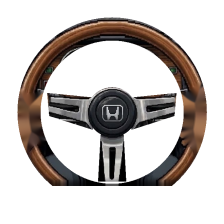
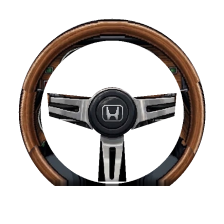
Alavanca de cambio grande, mao vai ate a alavanca de forma fluida, aro limpo sob as luvas
Claude-Session: https://claude.ai/code/session_01TuF56y2dJJwMBpJRURwFkp

diff --git a/demos/corrida-shibuya/index.html b/demos/corrida-shibuya/index.html
@@ -308,8 +308,8 @@ function engine(dt){
   if(shiftT>0)shiftT-=dt;
   else if(!manual){
     const r=v/GEARMAX[gear]*RPMHI;
-    if(r>7300&&gear<4){gear++;shiftT=.45;ev.push('f_shift');physKick(-6);shiftArm.t=.4;if(antilag&&thr>.5){alT=.7;alR=rpm}}
-    else if(gear>0&&r<3000){gear--;shiftT=.3;ev.push('f_blip');physKick(4);shiftArm.t=.4}
+    if(r>7300&&gear<4){gear++;shiftT=.45;ev.push('f_shift');physKick(-6);shiftArm.t=1;if(antilag&&thr>.5){alT=.7;alR=rpm}}
+    else if(gear>0&&r<3000){gear--;shiftT=.3;ev.push('f_blip');physKick(4);shiftArm.t=1}
   }
   const base=Math.max(900,v/GEARMAX[gear]*RPMHI);
   let target=(v<8&&key.a)?3400:base;
@@ -323,7 +323,7 @@ function engine(dt){
 function shiftTo(d){
   if(!manual){manual=true;const b=document.getElementById('tg');b.classList.add('on');b.setAttribute('aria-pressed',true)}
   const ng=clamp(gear+d,0,4);if(shiftT>0||ng===gear)return;
-  gear=ng;shiftT=.3;shiftArm.t=.45;ev.push(d>0?'f_shift':'f_blip');physKick(d>0?-5:3);
+  gear=ng;shiftT=.3;shiftArm.t=1;ev.push(d>0?'f_shift':'f_blip');physKick(d>0?-5:3);
   if(d>0&&antilag&&thr>.5&&rpm>5500){alT=.7;alR=rpm}
 }
 function gearK(){
@@ -616,7 +616,8 @@ function post(){
 const CK={};let CKC=null,ckReady=false;
 fetch('img/cockpit/cockpit.json').then(r=>r.json()).then(c=>{CKC=c;return Promise.all(['bg','wheel','gloveL','gloveR','armL','armR'].map(n=>new Promise(res=>{const i=new Image();i.onload=()=>{CK[n]=i;res()};i.onerror=res;i.src='img/cockpit/'+n+'.png'})))}).then(()=>{ckReady=!!CK.bg}).catch(()=>{});
 GLW.grn=mkG('70,255,130');
-let shP=[0,0],wheelA=0,wheelV=0,hb=0,gs=0,cabX=0,cabY=0,cabWX=0,cabWY=0,cabRoll=0,armJx=0,armJy=0;
+let shP=[0,0],hw=0,wheelA=0,wheelV=0,hb=0,cabX=0,cabY=0,cabWX=0,cabWY=0,cabRoll=0,armJx=0,armJy=0;
+const GX=[[-6,-7],[-6,7],[0,-7],[0,7],[6,-7]],LEV={bx:404,by:260,len:34};
 const shiftArm={t:0},wiper={on:false,ph:0},defog={on:false},fog={v:0},DROPS=[],radio={on:true,f:102.3};
 const WIPERS=[[175,150,112],[300,150,104]];
 function cabUpdate(dt){
@@ -627,7 +628,9 @@ function cabUpdate(dt){
   const tgt=clamp(steer*95-slip*38+act*((Math.random()-.5)*3*pct+clamp(BODY.hv,-4,4)*.5),-95,95);
   for(let i=0;i<4;i++){const h=dt/4;wheelV+=(900*(tgt-wheelA)-45*wheelV)*h;wheelA=clamp(wheelA+wheelV*h,-95,95)}
   if(Math.abs(tgt)<.2&&Math.abs(wheelA)<.2&&Math.abs(wheelV)<2){wheelA=0;wheelV=0}
-  gs+=((shiftArm.t>0?1:0)-gs)*Math.min(1,dt*14);shiftArm.t-=dt;
+  // mao no cambio: vai ate a alavanca (suave), segura enquanto troca, volta ao volante
+  shiftArm.t-=dt;hw+=((shiftArm.t>0?1:0)-hw)*Math.min(1,dt*6.5);
+  if(hw>.75){const sl=GX[gear];shP[0]+=(sl[0]-shP[0])*Math.min(1,dt*12);shP[1]+=(sl[1]-shP[1])*Math.min(1,dt*12)}
   hb+=((key.d&&pct>.1?1:0)-hb)*Math.min(1,dt*9);
   // balanço da cabine: inercia lateral (curva), arfagem (acelerar/frear) e buracos
   const tx=ay*2.4+act*BODY.r*.7,ty=act*(-BODY.h*.8-BODY.p*.5);
@@ -707,21 +710,29 @@ function drawCab(){
   // volante (rigido com o eixo), antebraços esticados ate as luvas, luvas
   const th=wheelA*Math.PI/180,H0=C.hub,rot=(p,a)=>[H0[0]+(p[0]-H0[0])*Math.cos(a)-(p[1]-H0[1])*Math.sin(a),H0[1]+(p[0]-H0[0])*Math.sin(a)+(p[1]-H0[1])*Math.cos(a)];
   ctx.save();ctx.translate(H0[0],H0[1]);ctx.rotate(th);ctx.drawImage(CK.wheel,C.wheelBox[0]-H0[0],C.wheelBox[1]-H0[1]);ctx.restore();
-  const hbo=[Math.max(hb*22,gs*30),Math.max(hb*28,gs*26)];
-  const GX=[[-3,-3],[-3,3],[0,-3],[0,3],[3,-3]],tp=GX[gear];shP[0]+=(tp[0]-shP[0])*.3;shP[1]+=(tp[1]-shP[1])*.3;
-  {const bx=368,by=262,kx=bx+shP[0],ky=by-14+shP[1];
-   ctx.fillStyle='#0b0b0e';ctx.beginPath();ctx.ellipse(bx,by,7,3,0,0,6.3);ctx.fill();
-   ctx.strokeStyle='#000';ctx.lineWidth=3.2;ctx.lineCap='round';ctx.beginPath();ctx.moveTo(bx,by-1);ctx.lineTo(kx,ky);ctx.stroke();
-   ctx.strokeStyle='#3b3f4a';ctx.lineWidth=1.6;ctx.stroke();
-   ctx.fillStyle='#000';ctx.beginPath();ctx.arc(kx,ky,4.4,0,6.3);ctx.fill();ctx.fillStyle='#4a5266';ctx.beginPath();ctx.arc(kx,ky,3.5,0,6.3);ctx.fill();
-   ctx.fillStyle='#b4bdd2';ctx.fillRect(kx-2,ky-2.5,2,1);pxText(String(gear+1),kx-1,ky-2,'#ffb23a')}                              // mao direita solta o volante e puxa o freio de mao
+  const kx=LEV.bx+shP[0],ky=LEV.by-LEV.len+shP[1];
+  {const bx=LEV.bx,by=LEV.by;                                   // alavanca de cambio (arte propria, mesmo estilo: contorno preto + sombreado)
+   ctx.fillStyle='#050507';ctx.beginPath();ctx.ellipse(bx,by,17,6,0,0,6.3);ctx.fill();ctx.fillStyle='#3a3f4c';ctx.beginPath();ctx.ellipse(bx,by-1.2,14,4.4,0,0,6.3);ctx.fill();
+   ctx.fillStyle='#0b0c10';ctx.beginPath();ctx.ellipse(bx,by-2,8,2.6,0,0,6.3);ctx.fill();   // abertura da grade em H
+   ctx.lineCap='round';ctx.strokeStyle='#000';ctx.lineWidth=7;ctx.beginPath();ctx.moveTo(bx,by-1);ctx.lineTo(kx,ky);ctx.stroke();
+   ctx.strokeStyle='#8a93a8';ctx.lineWidth=4.6;ctx.stroke();ctx.strokeStyle='#9aa3b8';ctx.lineWidth=1;ctx.beginPath();ctx.moveTo(bx-.8,by-2);ctx.lineTo(kx-.8,ky);ctx.stroke();
+   ctx.fillStyle='#000';ctx.beginPath();ctx.arc(kx,ky,10,0,6.3);ctx.fill();ctx.fillStyle='#3a4050';ctx.beginPath();ctx.arc(kx,ky,8.6,0,6.3);ctx.fill();
+   ctx.fillStyle='#596175';ctx.beginPath();ctx.arc(kx-1.2,ky-1.5,6.2,0,6.3);ctx.fill();ctx.fillStyle='#c4ccdf';ctx.fillRect(kx-5.5,ky-5.5,4,2);
+   pxText(String(gear+1),kx-1,ky-2.5,'#ffb23a');pxText(String(gear+1),kx,ky-2.5,'#ffb23a')}
   for(const [side,key2,gl] of [[-1,'armL','gloveL'],[1,'armR','gloveR']]){
-    const a=C[key2],img=CK[key2],isR=side>0,off=isR?hbo:[0,0],ang=isR?th*(1-Math.max(hb,gs)*.7):th;
-    const w0=a.wrist,wn0=rot(w0,ang);const Wn=[wn0[0]+off[0]+armJx*1.5,wn0[1]+off[1]+armJy*1.5];
+    const a=C[key2],img=CK[key2],isR=side>0,g=CK[gl],b=C[gl].box;
+    const grip=isR?Math.max(hb,hw):0,ang=th*(1-.88*grip);
+    let off=[0,0];
+    if(isR){
+      const gc=[b[0]+g.width/2,b[1]+g.height/2],rc=rot(gc,ang);
+      const sx=(kx-3-rc[0])*hw,sy=(ky+9-rc[1])*hw-Math.sin(Math.PI*hw)*9;           // trajetoria ate a alavanca, com arco
+      off=[sx*1+hb*(1-hw)*26,sy+hb*(1-hw)*34];
+    }
+    const jx=armJx*1.5,jy=armJy*1.5,w0=a.wrist,wn0=rot(w0,ang),Wn=[wn0[0]+off[0]+jx,wn0[1]+off[1]+jy];
     const A=[w0[0]+side*6,w0[1]+(img.height-(w0[1]-a.box[1]))];
     armDraw(img,a.box,w0,Wn,A);
-    const b=C[gl].box,g=CK[gl],cp=rot(b,ang);
-    ctx.save();ctx.translate(H0[0]+(cp[0]-H0[0])+off[0]+armJx*1.5,H0[1]+(cp[1]-H0[1])+off[1]+armJy*1.5);ctx.rotate(ang);ctx.drawImage(g,0,0);ctx.restore();
+    const cp=rot(b,ang);
+    ctx.save();ctx.translate(cp[0]+off[0]+jx,cp[1]+off[1]+jy);ctx.rotate(ang);ctx.drawImage(g,0,0);ctx.restore();
   }
   ctx.restore();
   // limpadores

diff --git a/ferramentas/arte2d/preparar_cockpit.py b/ferramentas/arte2d/preparar_cockpit.py
@@ -23,7 +23,7 @@ MIRROR=[(566,132),(792,132),(796,150),(792,188),(770,196),(585,196),(566,186)]
 SIDEM=[(-PX-5,368),(92,372),(96,420),(70,440),(-PX-5,444)]
 WINL=[(-PX-5,80),(45,72),(75,115),(110,205),(135,290),(152,350),(-PX-5,352)]
 WINR=[(1228,118),(1264+PX+5,100),(1264+PX+5,330),(1236,320),(1218,230)]
-RING=dict(c=HUB,r0=212,r1=278)
+RING=dict(c=HUB,r0=212,r1=274)
 SPOKES=[[(440,585),(570,598),(572,690),(446,650)],[(818,585),(690,598),(688,690),(812,650)],[(598,700),(662,700),(670,843),(590,843)]]
 GLOVE_L=[(318,552),(340,548),(362,575),(380,590),(405,585),(425,580),(442,592),(444,612),(432,632),(436,655),(430,680),(432,712),(424,738),(405,728),(388,745),(372,768),(345,778),(300,764),(258,752),(258,735),(264,640),(285,625),(300,600)]
 GLOVE_R=[(945,560),(900,548),(880,560),(855,585),(830,585),(815,598),(812,620),(822,640),(830,670),(836,700),(852,730),(868,742),(880,765),(905,778),(950,768),(1000,752),(1004,735),(990,700),(985,640),(960,610),(950,580)]
@@ -74,8 +74,16 @@ def save(img,alpha,name,box=None):
     return (x0*SC,y0*SC,c.shape[1],c.shape[0])
 save(work,bgA,'bg.png')
 # --- volante + maos (rigido): recorte quadrado em volta do cubo p/ girar facil ---
-glD=cv2.dilate(gl,np.ones((5,5),np.uint8))
-wimg=cv2.inpaint(im,cv2.dilate(glD&cv2.dilate(wheel,np.ones((9,9),np.uint8)),np.ones((3,3),np.uint8)),6,cv2.INPAINT_TELEA)
+# aro sob as luvas: copia do trecho limpo do proprio aro (rotacao de 60 graus em torno do cubo), sem borrao
+hx0,hy0=HUB[0]+PX,HUB[1]+PY
+ann=np.zeros((H,W),np.uint8); cv2.circle(ann,(hx0,hy0),278,255,-1); cv2.circle(ann,(hx0,hy0),208,0,-1)
+gD=cv2.dilate(poly(GLOVE_L)|poly(GLOVE_R),np.ones((9,9),np.uint8))&ann
+xs=np.arange(W)[None,:]*np.ones((H,1))
+rotCW=cv2.warpAffine(im,cv2.getRotationMatrix2D((hx0,hy0),-60,1),(W,H),flags=cv2.INTER_LINEAR)
+rotCCW=cv2.warpAffine(im,cv2.getRotationMatrix2D((hx0,hy0),60,1),(W,H),flags=cv2.INTER_LINEAR)
+wimg=im.copy()
+selR=(gD>0)&(xs>hx0); selL=(gD>0)&(xs<=hx0)
+wimg[selR]=rotCW[selR]; wimg[selL]=rotCCW[selL]
 rig=cv2.dilate(wheel,np.ones((3,3),np.uint8))
 hx,hy=HUB[0]+PX,HUB[1]+PY; half=330
 box=(hx-half,hy-half,hx+half,min(hy+half,H)) 

diff --git a/docs/decisoes.md b/docs/decisoes.md
@@ -43,3 +43,8 @@
 - Layout sem rolagem (cabe na tela em pé e deitado), botões só com ícones, polegares embaixo (esquerda: virar e marcha; direita: freio, acelerar, freio de mão, nitro); ícones pequenos no topo (câmera 1ª pessoa, faróis, pisca, limpador, desembaçar, câmbio M, anti-lag, filtro, chuva, som).
 - Alavanca de câmbio desenhada no cockpit (padrão em H, mostra a marcha); a mão direita vai até ela.
 - Acima de 100 km/h: tremor de câmera, zoom (FOV), embaçado radial nas bordas e linhas de velocidade. Protótipo do CapCut dele fica para depois.
+
+## Câmbio: alavanca grande e mão fluida (06/11)
+- Alavanca maior, com boot, haste e bola com o número da marcha; move no padrão em H.
+- Mão direita: sai do volante em arco, vai até a alavanca, segura enquanto troca, volta ao volante; antebraço estica junto.
+- Aro do volante sob as luvas reconstruído copiando o próprio aro (sem borrão) para a mão poder sair.
